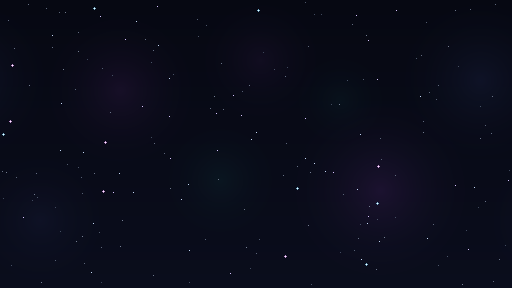
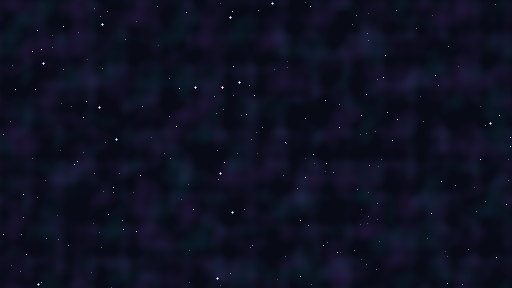
fix: make cosmic nebula distribution continuous and seamless across entire canvas

diff --git a/tests/combat-fx.test.ts b/tests/combat-fx.test.ts
@@ -25,7 +25,9 @@ describe('CombatFX', () => {
     expect(delayedCallMock).toHaveBeenCalledWith(90, expect.any(Function));
 
     // Simulate timer firing
-    timerCallback?.();
+    if (timerCallback) {
+      (timerCallback as Function)();
+    }
     expect(spriteMock.clearTint).toHaveBeenCalled();
   });
 
@@ -67,7 +69,9 @@ describe('CombatFX', () => {
     expect(spriteMock.anims.play).toHaveBeenCalledWith('enemy_explosion');
     expect(spriteMock.once).toHaveBeenCalledWith('animationcomplete', expect.any(Function));
 
-    animCompleteCb?.();
+    if (animCompleteCb) {
+      (animCompleteCb as Function)();
+    }
     expect(spriteMock.destroy).toHaveBeenCalled();
     expect(result).toBe(spriteMock);
   });

diff --git a/src/scenes/GameScene.ts b/src/scenes/GameScene.ts
@@ -99,7 +99,7 @@ export class GameScene extends Phaser.Scene {
 
     // 0. Set atmospheric background color & 4x4 grid physics world bounds
     if (this.cameras && this.cameras.main && typeof this.cameras.main.setBackgroundColor === 'function') {
-      this.cameras.main.setBackgroundColor('#121726');
+      this.cameras.main.setBackgroundColor('#080a16');
       if (typeof this.cameras.main.setRoundPixels === 'function') {
         this.cameras.main.setRoundPixels(true);
       }

diff --git a/src/core/GridGenerator.ts b/src/core/GridGenerator.ts
@@ -78,7 +78,8 @@ export function generateRoomGrid(seed: number): GridCell[][] {
       if (currentY < bossY) nextDirs.push('SOUTH');
     }
 
-    const choice = nextDirs.length > 0 ? rng.choice(nextDirs) : 'EAST';
+    const fallback: 'EAST' | 'NORTH' | 'SOUTH' = currentX < 3 ? 'EAST' : (currentY < bossY ? 'SOUTH' : 'NORTH');
+    const choice = nextDirs.length > 0 ? rng.choice(nextDirs) : fallback;
     lastChoice = choice;
 
     if (choice === 'EAST') {
